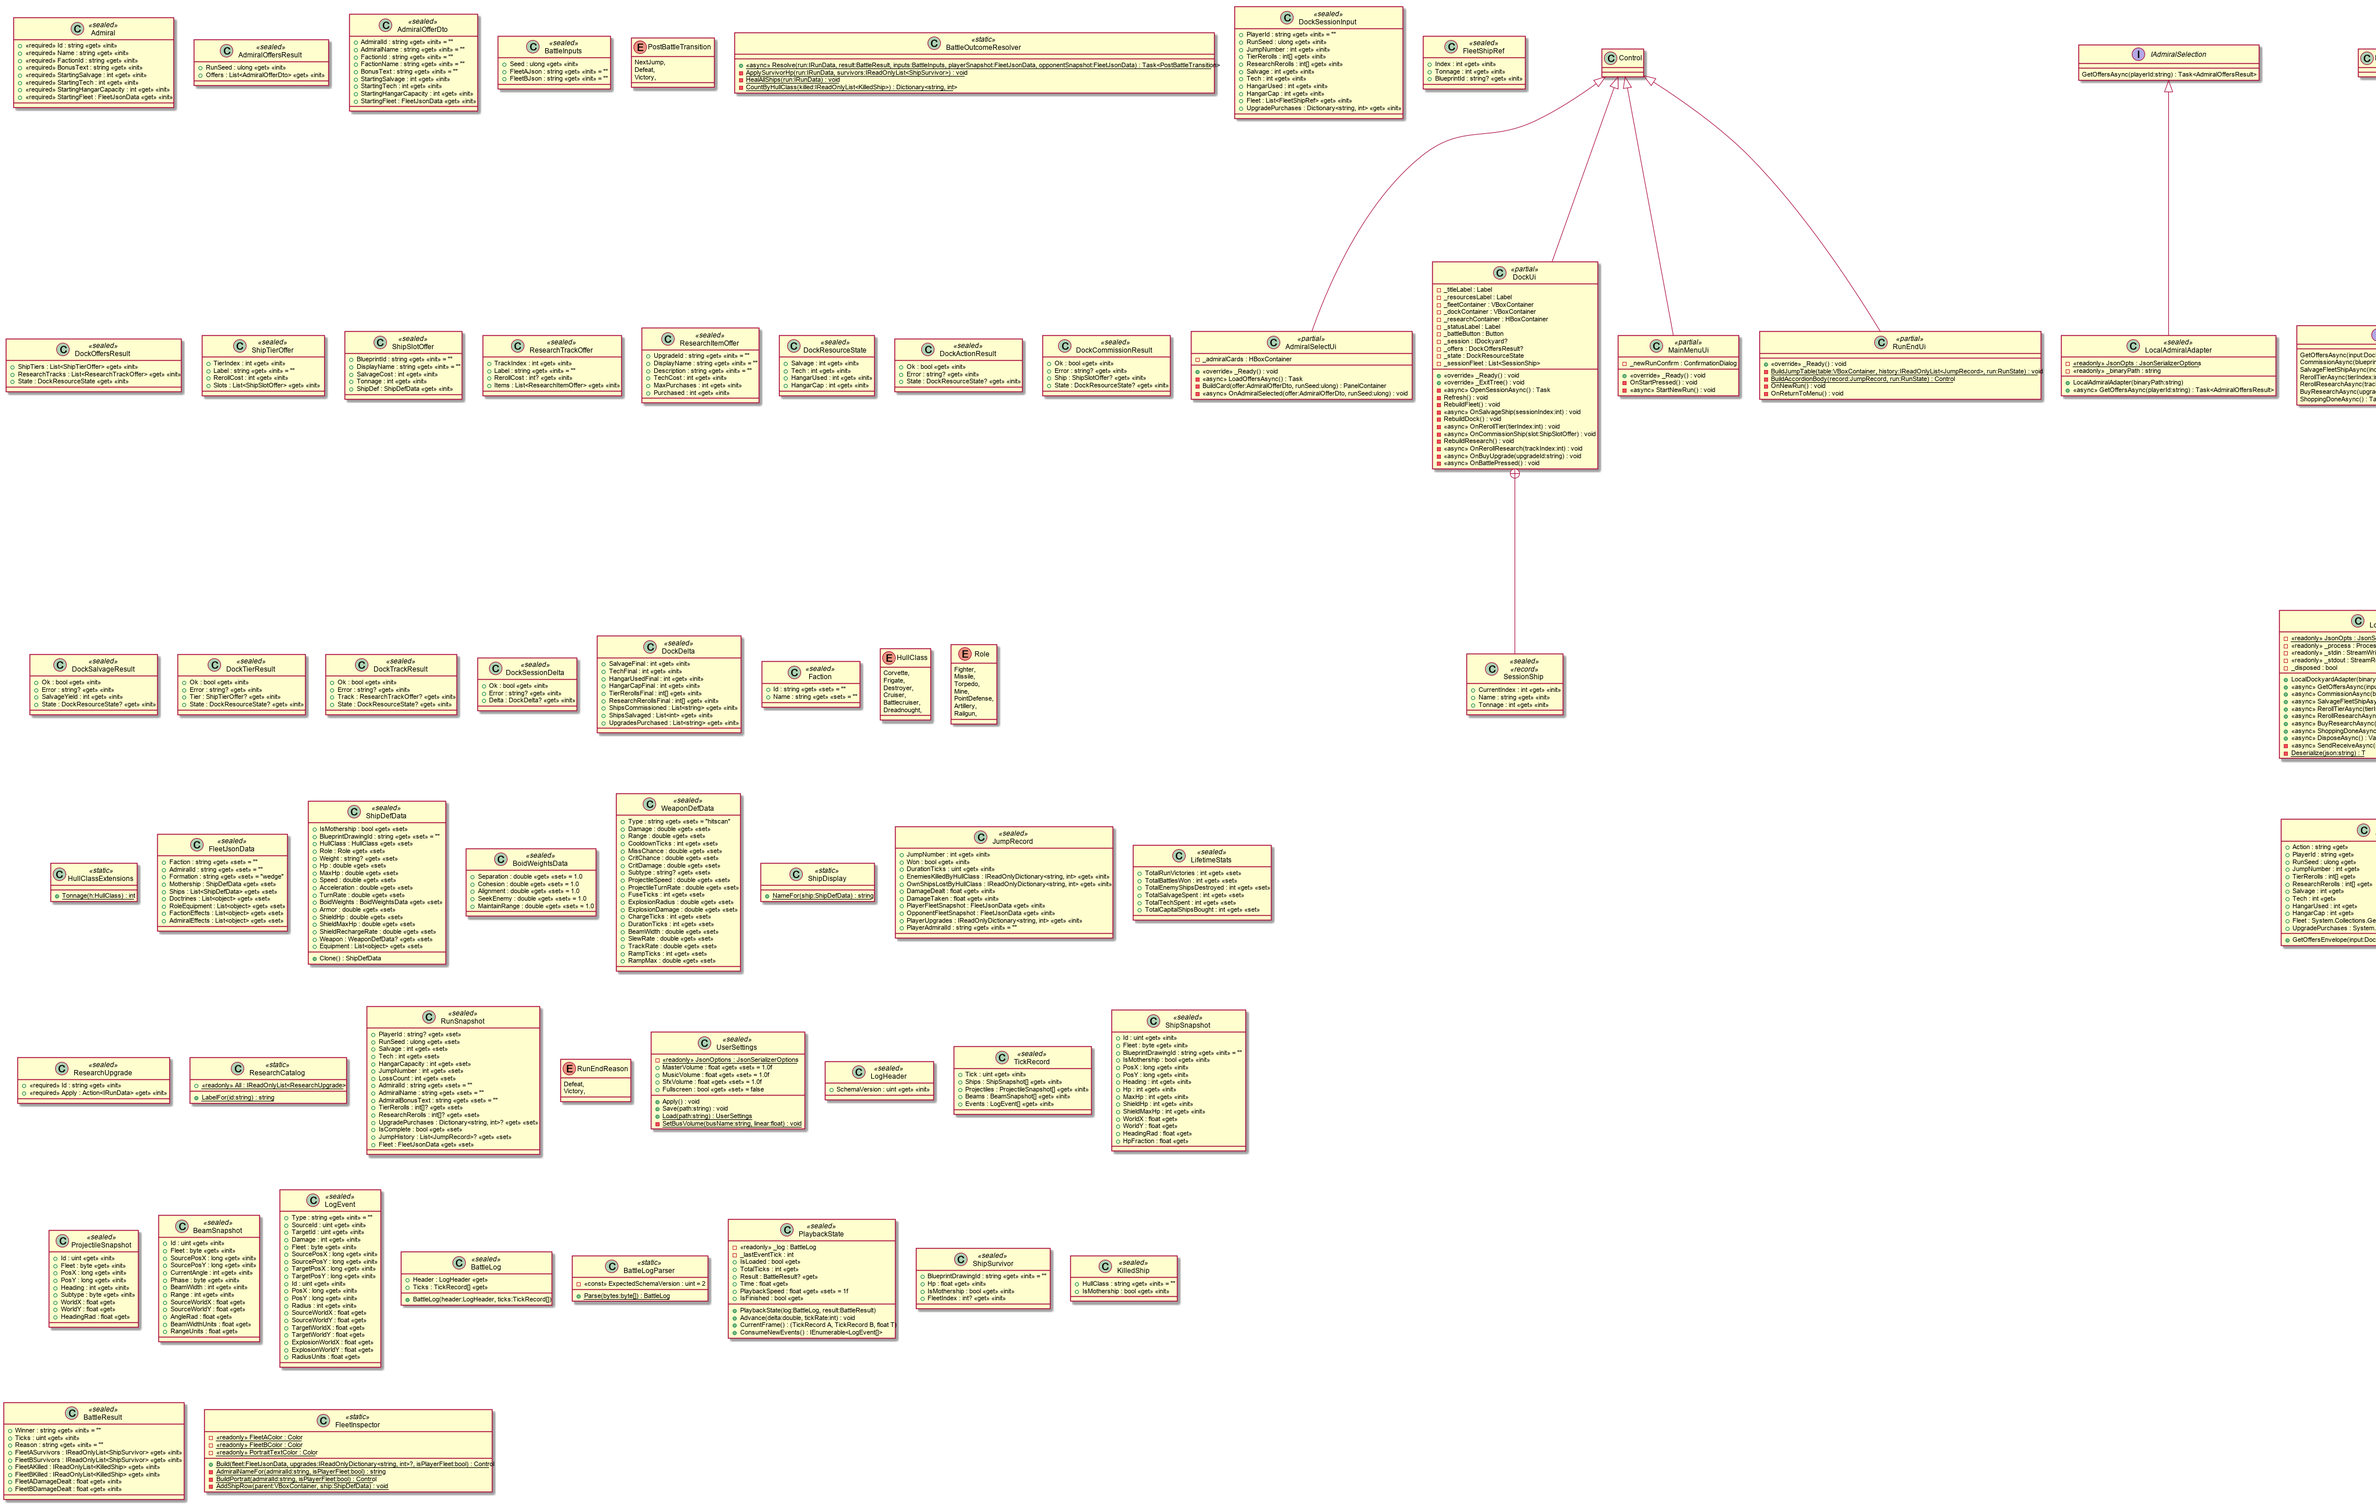
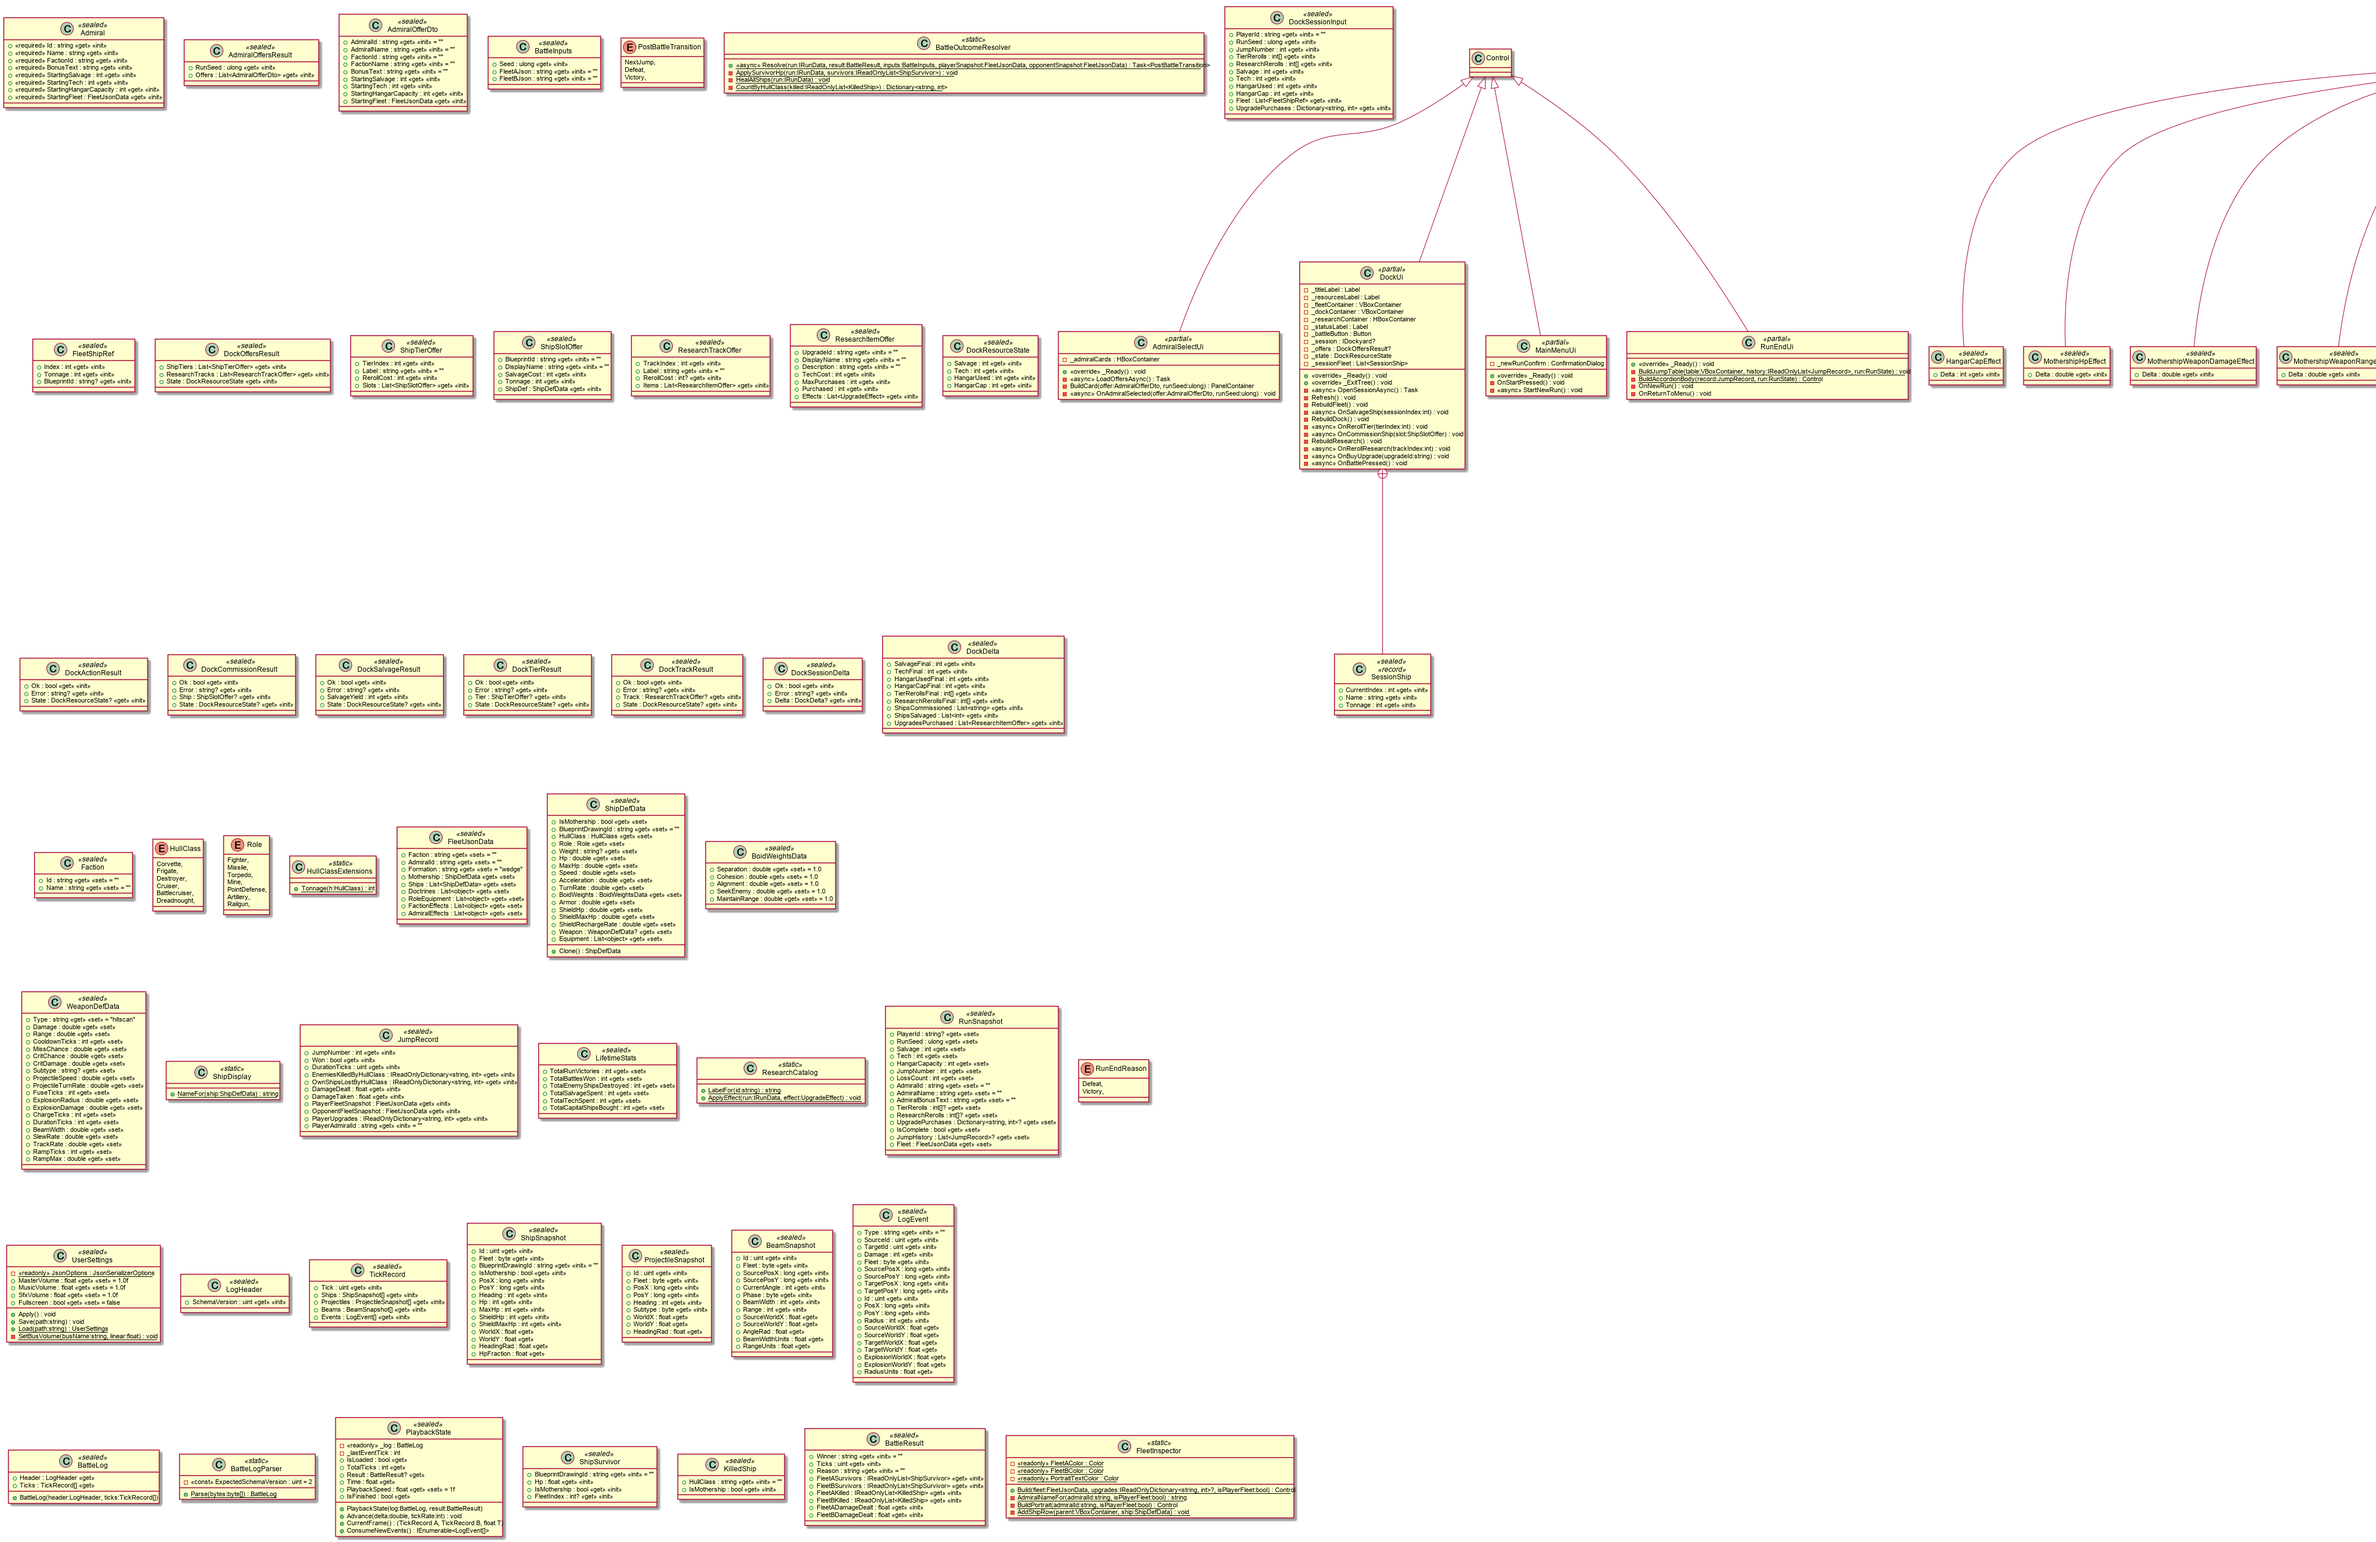
Prefer ToX() over new+foreach for collection construction in C#
Documents the convention in STANDARDS.md: when building a HashSet, List,
or Dictionary from a source with no side effects, terminate a LINQ chain
with .ToHashSet(), .ToList(), or .ToDictionary() rather than declaring an
empty collection and filling it in a loop. No pre-sizing with a capacity
argument — the ToX() methods handle that internally.

Applies the rule to BattleRenderer.cs: five imperative constructions
(two HashSet, two Dictionary, one filtered List) collapsed to expressions.

diff --git a/client/src/rendering/BattleRenderer.cs b/client/src/rendering/BattleRenderer.cs
@@ -278,13 +278,8 @@ public partial class BattleRenderer : Node2D
 
     private void RenderShips(TickRecord tickA, TickRecord tickB, float t)
     {
-        var snapshotsB = new Dictionary<uint, ShipSnapshot>(tickB.Ships.Length);
-        foreach (var s in tickB.Ships)
-            snapshotsB[s.Id] = s;
-
-        var aliveIds = new HashSet<uint>(tickA.Ships.Length);
-        foreach (var snap in tickA.Ships)
-            aliveIds.Add(snap.Id);
+        var snapshotsB = tickB.Ships.ToDictionary(s => s.Id);
+        var aliveIds = tickA.Ships.Select(snap => snap.Id).ToHashSet();
 
         foreach (var (id, node) in _shipNodes)
             node.Visible = aliveIds.Contains(id);
@@ -318,14 +313,8 @@ public partial class BattleRenderer : Node2D
 
     private void RenderProjectiles(TickRecord tickA, TickRecord tickB, float t)
     {
-        // Build lookup for interpolation
-        var projB = new Dictionary<uint, ProjectileSnapshot>(tickB.Projectiles.Length);
-        foreach (var p in tickB.Projectiles)
-            projB[p.Id] = p;
-
-        var liveIds = new HashSet<uint>(tickA.Projectiles.Length);
-        foreach (var p in tickA.Projectiles)
-            liveIds.Add(p.Id);
+        var projB = tickB.Projectiles.ToDictionary(p => p.Id);
+        var liveIds = tickA.Projectiles.Select(p => p.Id).ToHashSet();
 
         // Create nodes for newly appearing projectiles
         foreach (var snap in tickA.Projectiles)
@@ -340,12 +329,7 @@ public partial class BattleRenderer : Node2D
         }
 
         // Remove nodes for projectiles that have disappeared
-        var toRemove = new List<uint>();
-        foreach (var id in _projNodes.Keys)
-        {
-            if (!liveIds.Contains(id))
-                toRemove.Add(id);
-        }
+        var toRemove = _projNodes.Keys.Where(id => !liveIds.Contains(id)).ToList();
         foreach (var id in toRemove)
         {
             _projNodes[id].QueueFree();
@@ -410,9 +394,7 @@ public partial class BattleRenderer : Node2D
 
     private void RenderBeams(TickRecord tickA)
     {
-        var liveIds = new HashSet<uint>(tickA.Beams.Length);
-        foreach (var b in tickA.Beams)
-            liveIds.Add(b.Id);
+        var liveIds = tickA.Beams.Select(b => b.Id).ToHashSet();
 
         // Create nodes for new beams
         foreach (var snap in tickA.Beams)
@@ -427,12 +409,7 @@ public partial class BattleRenderer : Node2D
         }
 
         // Remove ended beams
-        var toRemove = new List<uint>();
-        foreach (var id in _beamNodes.Keys)
-        {
-            if (!liveIds.Contains(id))
-                toRemove.Add(id);
-        }
+        var toRemove = _beamNodes.Keys.Where(id => !liveIds.Contains(id)).ToList();
         foreach (var id in toRemove)
         {
             _beamNodes[id].QueueFree();

diff --git a/docs/STANDARDS.md b/docs/STANDARDS.md
@@ -118,6 +118,20 @@ foreach (var s in fleet.Ships)
     if (s.Hp > 0) survivors.Add(s.BlueprintDrawingId);
 ```
 
+This extends to collection construction. When building a `HashSet`, `List`, or `Dictionary` from a source, terminate a LINQ chain with `.ToHashSet()`, `.ToList()`, or `.ToDictionary()` rather than declaring an empty collection and filling it in a loop. Do not pre-size with a capacity argument — the `ToX()` methods handle that internally.
+
+```csharp
+// Good
+var liveIds = tickA.Projectiles.Select(p => p.Id).ToHashSet();
+var snapshots = tickB.Ships.ToDictionary(s => s.Id);
+var toRemove = _nodes.Keys.Where(id => !liveIds.Contains(id)).ToList();
+
+// Avoid
+var liveIds = new HashSet<uint>(tickA.Projectiles.Length);
+foreach (var p in tickA.Projectiles)
+    liveIds.Add(p.Id);
+```
+
 Use a `foreach` when the body has side effects, mutates external state, or when an early `break`/`continue` makes intent clearer than the LINQ equivalent.
 
 Use `const` for compile-time constants, `static readonly` for values computed once at class load time, `readonly` for instance fields set only in the constructor. Never use a mutable field when the value never changes after assignment.
